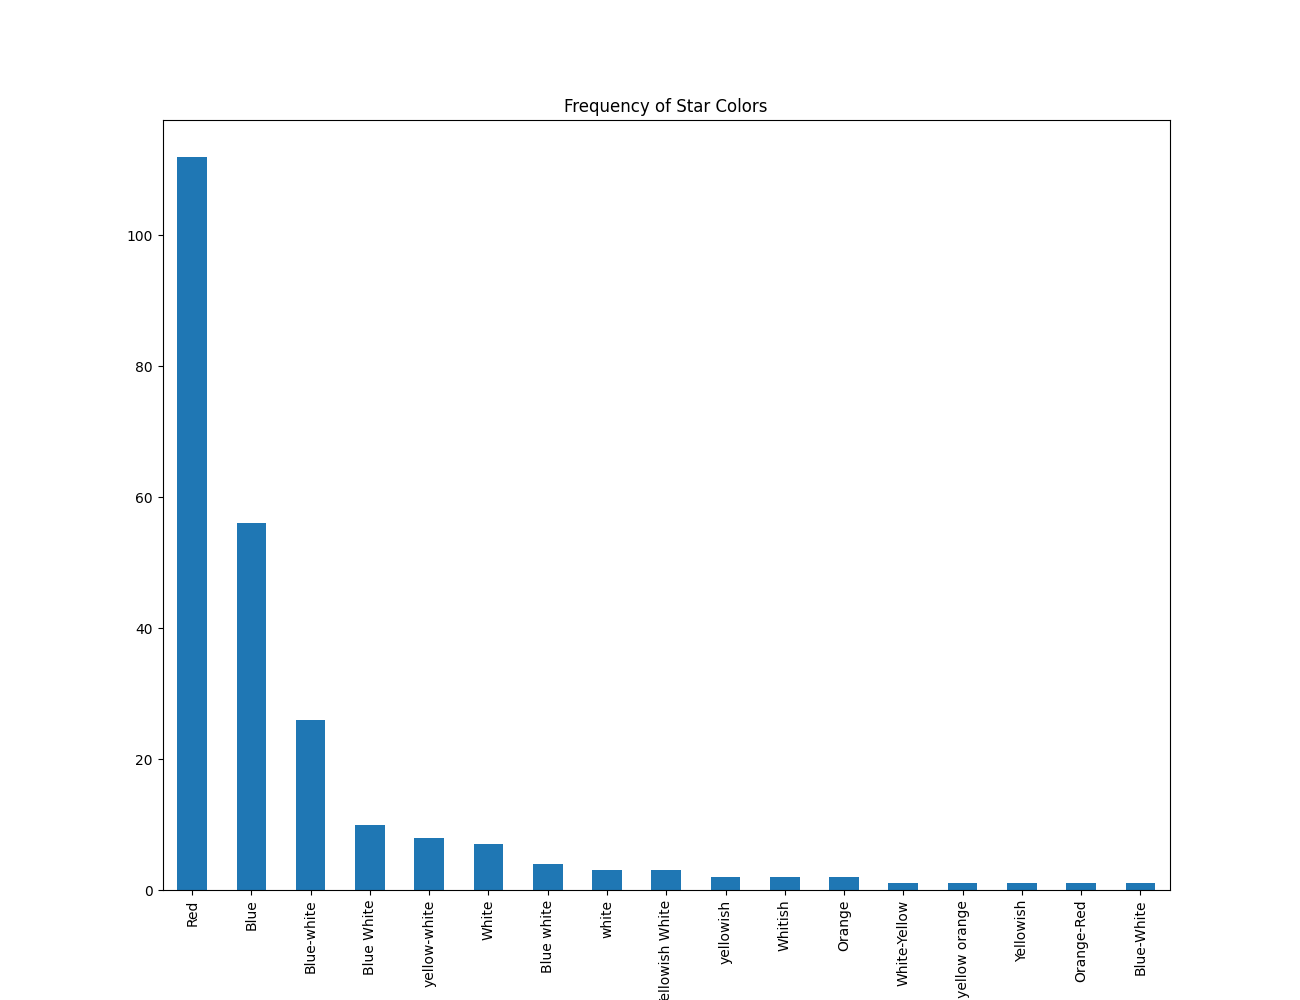
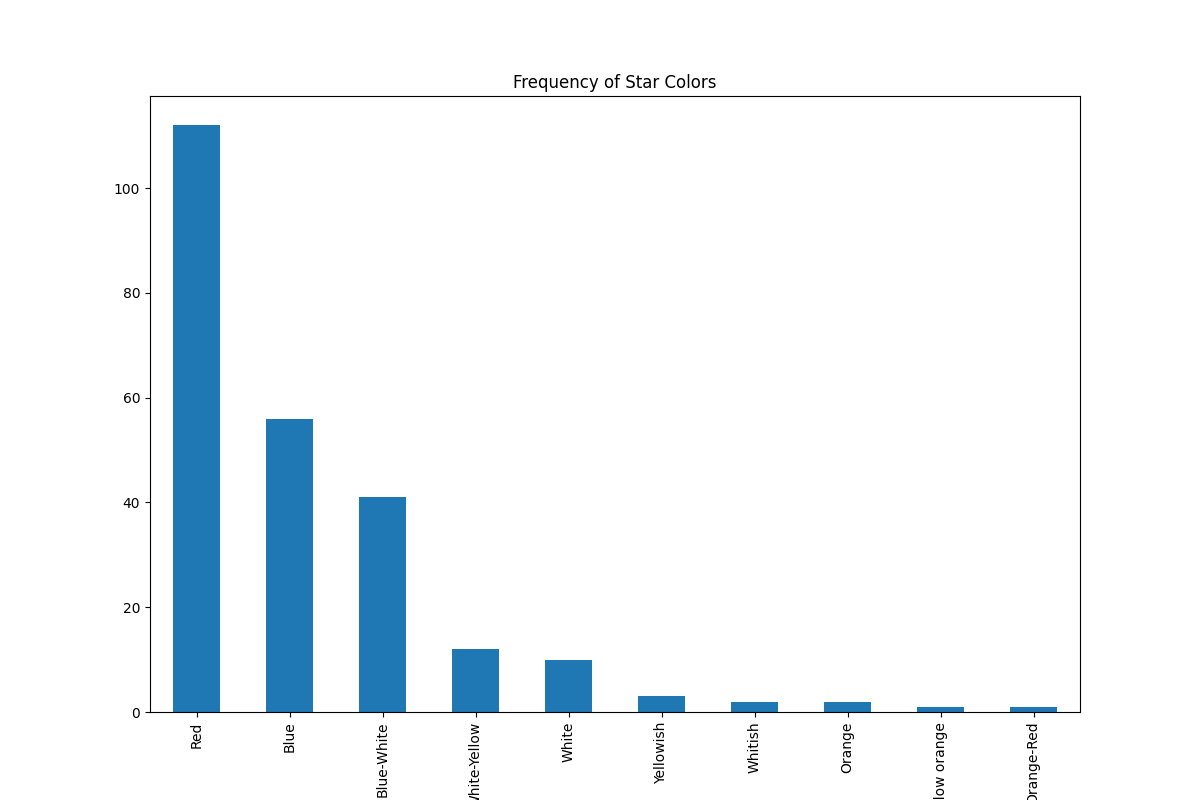
Add corrections for colors, edited subplots slightly
The original dataset had some wonky descriptions for colors. Once we've tested this with the rest of the program, we should be good to go.

Changed region(s): [[0.0925, 0.1562, 0.8942, 1.0], [0.4317, 0.0938, 0.6167, 0.125]]

diff --git a/graph_generation.py b/graph_generation.py
@@ -10,9 +10,19 @@ import pandas as pd
 class graph_generator:
     # This function initializes a graph generator based on an input CSV file.
     # The file is read in as a DataFrame to be used with the later functions.
+    # It also corrects some inconsistencies in the .csv file, should they exist.
     def __init__(self, FileWithPredictionsInput):
         self.FileWithPredictionsInput = pd.read_csv(FileWithPredictionsInput)
-        print(self.FileWithPredictionsInput) # Mainly for testing, feel free to comment out
+        stars_type = ['Red Dwarf','Brown Dwarf','White Dwarf','Main Sequence','Super Giants','Hyper Giants']
+        self.FileWithPredictionsInput['Class'] = self.FileWithPredictionsInput['Type'].replace(self.FileWithPredictionsInput['Type'].unique(),stars_type)
+        self.FileWithPredictionsInput['Color'].loc[self.FileWithPredictionsInput['Color'] =='Blue-white'] = 'Blue-White'
+        self.FileWithPredictionsInput['Color'].loc[self.FileWithPredictionsInput['Color'] =='Blue White'] = 'Blue-White'
+        self.FileWithPredictionsInput['Color'].loc[self.FileWithPredictionsInput['Color'] =='Blue white'] = 'Blue-White'
+        self.FileWithPredictionsInput['Color'].loc[self.FileWithPredictionsInput['Color'] =='yellow-white'] = 'White-Yellow'
+        self.FileWithPredictionsInput['Color'].loc[self.FileWithPredictionsInput['Color'] =='Yellowish White'] = 'White-Yellow'
+        self.FileWithPredictionsInput['Color'].loc[self.FileWithPredictionsInput['Color'] =='white'] = 'White'
+        self.FileWithPredictionsInput['Color'].loc[self.FileWithPredictionsInput['Color'] =='yellowish'] = 'Yellowish'
+        # print(self.FileWithPredictionsInput) # Mainly for testing, feel free to comment out
 
     # This function generates a graph of each feature, displays it on the screen,
     # and saves the figure to the computer. Histograms are chosen for this purpose
@@ -21,7 +31,7 @@ class graph_generator:
         plt.close()
 
         # Frequency of Star Colors
-        plt.figure(1, figsize=(13, 10))
+        plt.figure(1, figsize=(12, 8))
         self.FileWithPredictionsInput["Color"].value_counts().plot(kind='bar')
         plt.title("Frequency of Star Colors")
         plt.savefig('color_freqs.png')
@@ -55,19 +65,24 @@ class graph_generator:
     # This does not necessarily include every potential combination at the moment. The overall subplot
     # will look wonky depending on the screen size with plt.show().
     def graph_values(self):
+        plt.close()
         col_headers = list(self.FileWithPredictionsInput.columns)
         col_header_combinations = combinations(col_headers, 2)
         # print(col_headers) # for testing
         # print(list(col_header_combinations)) # for testing
         plotnum = 0
-        value_figure = plt.figure(5, figsize=(25, 25))
+        value_figure = plt.figure(5, figsize=(25, 25), clear=True)
 
         # Iterate through the possible combinations and generate a graph of their features
         for list_element in list(col_header_combinations):
-            print(list_element)
+            # print(list_element) # for testing
+
+            if (list_element[0] == "Color" or list_element[1] == "Color"):
+                continue
+
             plotnum += 1
 
-            if (plotnum > 18):
+            if plotnum > 18:
                 break
 
             ax = value_figure.add_subplot(6, 3, plotnum)
@@ -80,12 +95,7 @@ class graph_generator:
                 fontweight='light'
             )
 
-            # Colors are reported inconsistently throughout the .csv. B/b = blue, W/w = white, Y/y = yellow, R/r = red, O/o = orange.
-            # Yellowish is reported as Y-ish, and so on.
-            if (list_element[1] == "Color"):
-                ax.set_xticklabels(["R", "B W", "W", "Y-ish W", "B w", "Y o", "B", "B-W", "W-ish", "Y-W", "O", "W-Y", "w", "y-ish", "Y-ish", "O-R", "B-W"])
-
-        plt.tight_layout(rect=[2,2,2,2])
+        plt.tight_layout()
         plt.subplots_adjust(hspace=1)
         plt.savefig('features_subplot.png')
         # plt.show() # again, for testing
